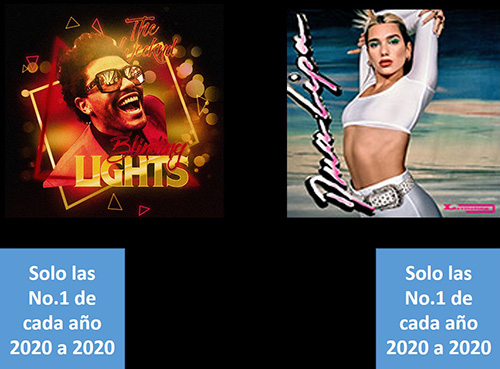
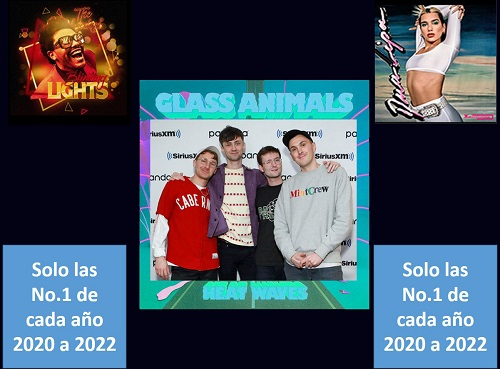
update

diff --git a/wowslider/350x500_sidebar/wowslider.html b/wowslider/350x500_sidebar/wowslider.html
@@ -160,31 +160,32 @@
 <a href="https://rllom.github.io/radioandromeda/topend/top2021.html" target="_top">
 <img src="data1/images/top2021.jpg" alt="Las 10 mejores del 2021" title="Las 10 mejores del 2021" id="wows1_21"/>
 </a>
-</li>	
+</li>
+
+<li>
+<a href="https://rllom.github.io/radioandromeda/topend/top2022.html" target="_top">
+<img src="data1/images/top2022.jpg" alt="Las 10 mejores del 2022" title="Las 10 mejores del 2022" id="wows1_22"/>
+</a>
+</li>
+	
 	
 <!-- Solo No.1 de... -->
 
 <li>
 <a href="https://rllom.github.io/radioandromeda/topend/solouno2017.html" target="_top">
-<img src="data1/images/solo1_2017.jpg" alt="Solo las No.1 del 2017" title="Solo las No.1 del 2017" id="wows1_22"/>
+<img src="data1/images/solo1_2017.jpg" alt="Solo las No.1 del 2017" title="Solo las No.1 del 2017" id="wows1_23"/>
 </a>
 </li>
 
 <li>
 <a href="https://rllom.github.io/radioandromeda/topend/solouno2018.html" target="_top">
-<img src="data1/images/solo1_2018.jpg" alt="Solo las No.1 del 2018" title="Solo las No.1 del 2018" id="wows1_23"/>
+<img src="data1/images/solo1_2018.jpg" alt="Solo las No.1 del 2018" title="Solo las No.1 del 2018" id="wows1_24"/>
 </a>
 </li>
 
 <li>
 <a href="https://rllom.github.io/radioandromeda/topend/solouno2019.html" target="_top">
-<img src="data1/images/solo1_2019.jpg" alt="Solo las No.1 del 2019" title="Solo las No.1 del 2018" id="wows1_24"/>
-</a>
-</li>
-
-<li>
-<a href="https://rllom.github.io/radioandromeda/topend/solouno2019.html" target="_top">
-<img src="data1/images/solo1_2019.jpg" alt="Solo las No.1 del 2019" title="Solo las No.1 del 2019" id="wows1_25"/>
+<img src="data1/images/solo1_2019.jpg" alt="Solo las No.1 del 2019" title="Solo las No.1 del 2018" id="wows1_25"/>
 </a>
 </li>
 
@@ -200,13 +201,20 @@
 </a>
 </li>
 
+<li>
+<a href="https://rllom.github.io/radioandromeda/topend/solouno2022.html" target="_top">
+<img src="data1/images/solo1_2022.jpg" alt="Solo las No.1 del 2022" title="Solo las No.1 del 2022" id="wows1_28"/>
+</a>
+</li>
+
+
 </ul>
 </div>
 <div class="ws_script" style="position:absolute;left:-99%"><a href="http://wowslider.net">jquery image carousel</a> by WOWSlider.com v8.8</div>
 	<div class="ws_shadow"></div>
 	</div>	
 	<script type="text/javascript" src="engine1/wowslider.js"></script>
-	<script type="text/javascript" src="engine1/script.js?v=4"></script>
+	<script type="text/javascript" src="engine1/script.js?v=1"></script>
 	<!-- End WOWSlider.com BODY section -->
 
 </body>
